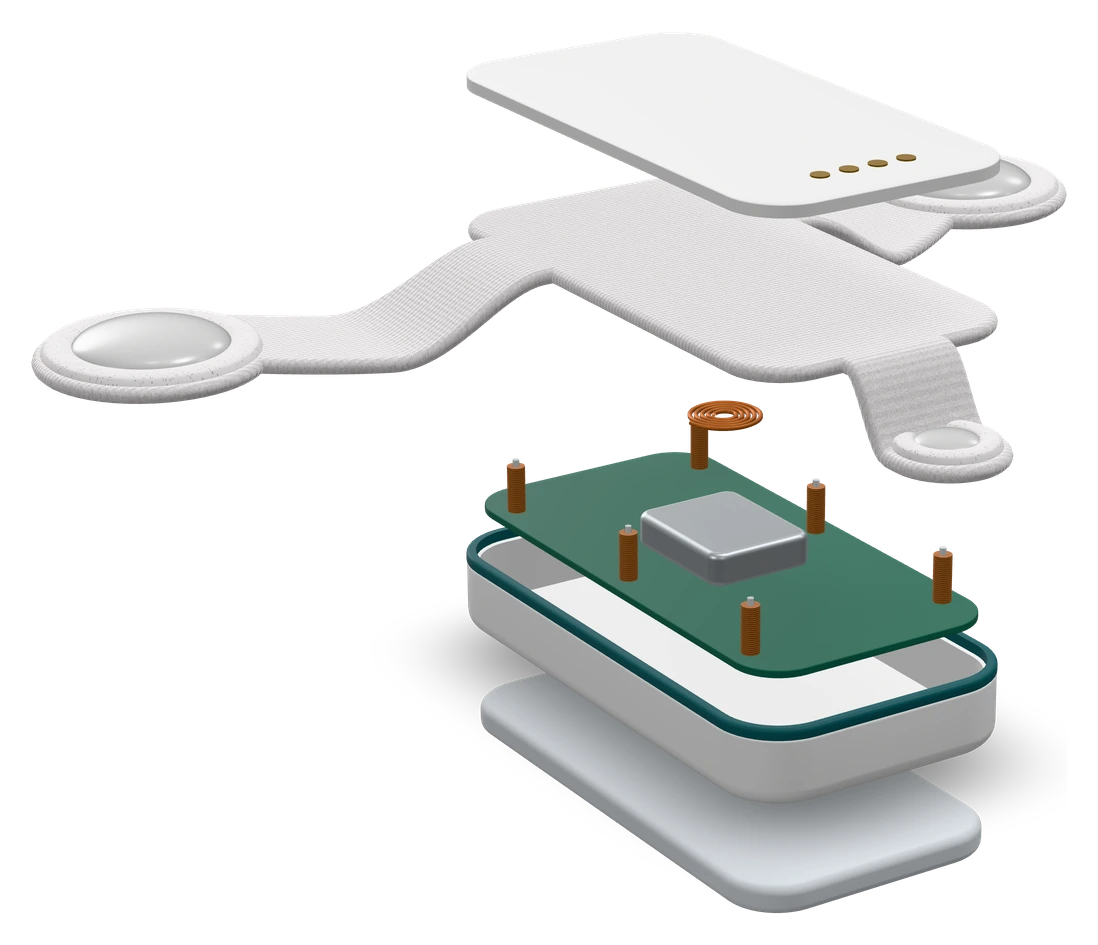
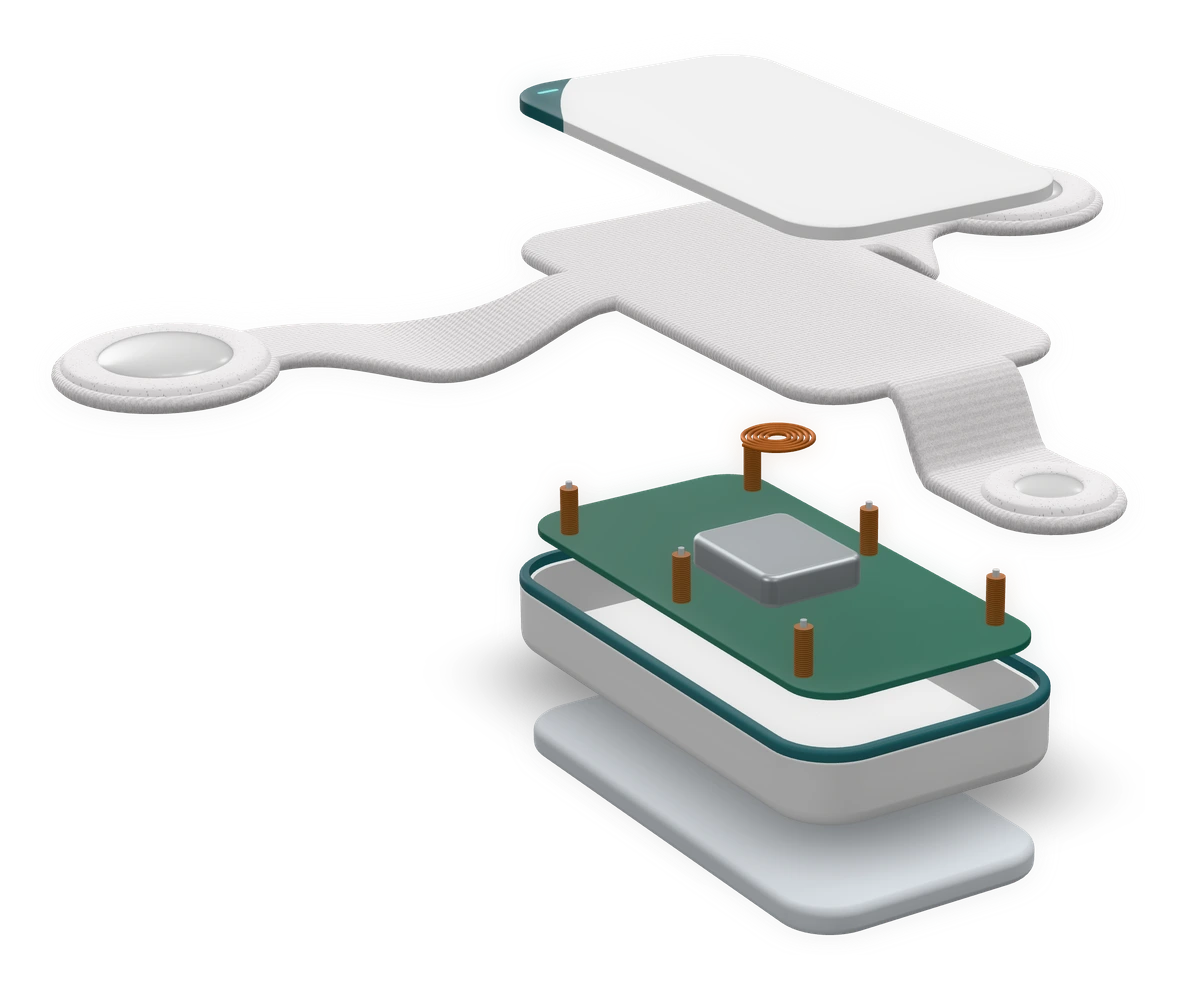
Development: model matched to the opening picture, lid contacts removed, new opened still on Work with us, heartbeat lines leaving the device, 42 chests in cross-section

diff --git a/site/src/three/device.js b/site/src/three/device.js
@@ -2,7 +2,7 @@
    (copied from the research tool's design data: core size, corner radius, pad thickness, sensor places, ring colour, cell).
    Units are millimetres. X across the chest, Y out of the chest, -Z toward the head. The pad's underside is y = -pad_t.
    Only named parts are drawn: soft pad, shell, ring, sensor board with its sensors, the cell, the self-test coil,
-   the flexible sheet (two wings and the top tab, each with its electrode), the lid and its charging pads. */
+   the flexible sheet (two wings and the top tab, each with its electrode), and the lid with its coloured corner and light. */
 import {
   BufferGeometry, CanvasTexture, CatmullRomCurve3, Color, CylinderGeometry, DoubleSide, Float32BufferAttribute, Group,
   LatheGeometry, Mesh, MeshPhysicalMaterial, MeshStandardMaterial, RepeatWrapping, SRGBColorSpace, TubeGeometry, Vector2, Vector3,
@@ -81,7 +81,8 @@ function slab(w, l, r, y0, y1, e, out = 0) {
 export function wingPlan(core) {
   const dx = core.w / 2 - 16;
   const zr = 9 + (core.l - 60) / 4;
-  return { dx, zr, lobe: { x: 50 + dx, z: zr + 18.3, r: 11 }, tab: { z: -(core.l / 2 + 7.5), r: 5.3 }, pad: 8, tabPad: 3.3 };
+  /* strap: the width of a wing; root: where its head-side edge leaves the core. Set to the look of the opening picture. */
+  return { dx, zr, strap: 8.6, root: zr - 2, lobe: { x: 52 + dx, z: zr + 23, r: 10.5 }, tab: { z: -(core.l / 2 + 15), r: 6.3 }, pad: 6.9, tabPad: 3.4 };
 }
 const bez = (p0, c1, c2, p3, t) => {
   const m = 1 - t;
@@ -167,12 +168,20 @@ function sheetGeometry(core, plan, height, th) {
   S.edge(line, () => [0, 0], true);
   /* the wings: each edge is a curve from the core to the round end */
   const { dx, zr, lobe } = plan;
-  const a1 = Math.atan2(9.3, 9), a2 = Math.atan2(-6.7, 8.5);
+  /* each wing is a strap of one width along an S-shaped centre line, level where it leaves the core and where it meets its round end */
+  const hs = plan.strap / 2;
+  const endX = lobe.x - dx - Math.sqrt(lobe.r * lobe.r - hs * hs);
+  const zc = plan.root + hs;
+  const centre = (t) => bez([14, zc], [14 + (endX - 14) * 0.62, zc], [endX - (endX - 14) * 0.55, lobe.z], [endX, lobe.z], t);
   for (const sgn of [-1, 1]) {
     const X = (x) => sgn * (x + dx);
     const cx = sgn * lobe.x;
-    const upper = (t) => bez([X(14), zr], [X(27), zr], [X(34), zr + 4], [cx - sgn * lobe.r * Math.cos(a1), lobe.z - lobe.r * Math.sin(a1)], t);
-    const lower = (t) => bez([X(14), zr + 11.5], [X(22), zr + 11.5], [X(30), zr + 16.5], [cx - sgn * lobe.r * Math.cos(a2), lobe.z - lobe.r * Math.sin(a2)], t);
+    const edge = (t, s) => {
+      const a = centre(Math.max(0, t - 0.002)), b = centre(Math.min(1, t + 0.002)), c = centre(t);
+      const L = Math.hypot(b[0] - a[0], b[1] - a[1]) || 1;
+      return [X(c[0] - s * hs * (b[1] - a[1]) / L), c[1] + s * hs * (b[0] - a[0]) / L];
+    };
+    const upper = (t) => edge(t, -1), lower = (t) => edge(t, 1);
     const NI = 44;
     S.grid(NI, 8, (u, v) => { const a = upper(u), b = lower(u); return [a[0] + (b[0] - a[0]) * v, a[1] + (b[1] - a[1]) * v]; });
     const U = [], Lo = [];
@@ -295,14 +304,41 @@ export function buildDevice(spec, M, { inside = false } = {}) {
   const crown = 0.22;
   const top = [];
   for (const f of [0.2, 0.42, 0.66, 0.86, 0.97]) top.push([-(inL + er + (hw - inL - er) * f), t + crown * (1 - (1 - f) * (1 - f))]);
-  lid.add(mesh(loft(w, l, r, [['C', yL], [-inL, yL], [-inL, yL], [-inL, yR + 0.1], ...arc(-inL - er, yR + 0.1, er, t - yR - 0.1, 0, H, 12), ...top, ['C', t + crown]], 14, 10), M.shell));
+  const lidGeo = loft(w, l, r, [['C', yL], [-inL, yL], [-inL, yL], [-inL, yR + 0.1], ...arc(-inL - er, yR + 0.1, er, t - yR - 0.1, 0, H, 12), ...top, ['C', t + crown]], 14, 10);
+  /* the lid's colours are painted from above: white, with the ring's colour in one corner at the foot end and a small light in it */
+  const lp = lidGeo.attributes.position, luv = [];
+  for (let i = 0; i < lp.count; i++) luv.push((lp.getX(i) + hw) / w, (lp.getZ(i) + hl) / l);
+  lidGeo.setAttribute('uv', new Float32BufferAttribute(luv, 2));
+  const lidMat = M.shell.clone();
+  const paint = (fill) => {
+    const k = 20, tex = canvasTexture(8, () => {}), c = tex.image, x = c.getContext('2d');
+    c.width = Math.round(w * k); c.height = Math.round(l * k);
+    fill(x, k, c.width, c.height, (hw + hw - inL) * k, (hl + hl - inL) * k);
+    tex.flipY = false; tex.colorSpace = SRGBColorSpace; tex.needsUpdate = true;
+    return tex;
+  };
+  const NA = 9, NB = 13; // how far the coloured corner runs along the foot edge and along the side
+  lidMat.map = paint((x, k, W, Hh, ax, az) => {
+    x.fillStyle = '#ffffff'; x.fillRect(0, 0, W, Hh);
+    const A = [ax - NA * k, az], B = [ax, az - NB * k], mx = (A[0] + B[0]) / 2, mz = (A[1] + B[1]) / 2;
+    x.beginPath(); x.moveTo(A[0], A[1]); x.lineTo(A[0], Hh); x.lineTo(W, Hh); x.lineTo(W, B[1]); x.lineTo(B[0], B[1]);
+    x.quadraticCurveTo(ax + (mx - ax) * 0.8, az + (mz - az) * 0.8, A[0], A[1]); x.closePath();
+    x.fillStyle = spec.ring; x.fill();
+  });
+  lidMat.emissiveMap = paint((x, k, W, Hh, ax, az) => {
+    x.fillStyle = '#000000'; x.fillRect(0, 0, W, Hh);
+    const cx = ax - 3.6 * k, cz = az - 3.9 * k;
+    const g = x.createRadialGradient(cx, cz, 0, cx, cz, 2.6 * k);
+    g.addColorStop(0, 'rgba(60,220,215,0.5)'); g.addColorStop(1, 'rgba(60,220,215,0)');
+    x.fillStyle = g; x.fillRect(cx - 3 * k, cz - 3 * k, 6 * k, 6 * k);
+    x.lineCap = 'round'; x.lineWidth = 0.6 * k; x.strokeStyle = '#8ffbf3';
+    x.beginPath(); x.moveTo(cx - 0.9 * k, cz); x.lineTo(cx + 0.9 * k, cz); x.stroke();
+  });
+  lidMat.emissive = new Color('#ffffff');
+  lidMat.emissiveIntensity = 1;
+  lid.add(mesh(lidGeo, lidMat));
 
-  /* flat gold pads at the head end of the lid, which meet the spring pins of the charging case */
-  for (let k = 0; k < (spec.contacts || 0); k++) {
-    const c = new CylinderGeometry(0.95, 0.95, 0.16, 24, 1);
-    c.translate((k - (spec.contacts - 1) / 2) * 3.3, t + crown + 0.02, -(hl - 6.5));
-    lid.add(mesh(c, M.gold, false));
-  }
+  /* The charging pads (spec.contacts) are not drawn: they are not on the lid, and the model has no other face to show them on. */
 
   /* the flexible sheet: clamped in the core, two wings and the top tab draped to the surface it lies on */
   const th = 1.7;
@@ -325,7 +361,7 @@ export function buildDevice(spec, M, { inside = false } = {}) {
     rim.translate(x, y - 0.05, z);
     flex.add(mesh(rim, M.rim));
     const domeP = [];
-    const dh = padR * 0.3;
+    const dh = padR * 0.26;
     for (let k = 0; k <= 14; k++) { const a = (k / 14) * H; domeP.push(new Vector2(padR * Math.sin(a), dh * Math.cos(a))); }
     const dome = new LatheGeometry(domeP.reverse(), 56);
     dome.translate(x, y + 0.2, z);
@@ -370,6 +406,6 @@ export function buildDevice(spec, M, { inside = false } = {}) {
     /* how far each part rises when the device is fully opened */
     lift: { pad: -9, tray: 0, sensors: s0, coil: s0 + tall + 5, flex: s0 + tall + 22, lid: s0 + tall + 35 },
     explode(e) { for (const k in parts) parts[k].position.y = this.lift[k] * e; },
-    dispose() { group.traverse((o) => { if (o.geometry) o.geometry.dispose(); }); ring.dispose(); },
+    dispose() { group.traverse((o) => { if (o.geometry) o.geometry.dispose(); }); ring.dispose(); lidMat.map.dispose(); lidMat.emissiveMap.dispose(); lidMat.dispose(); },
   };
 }

diff --git a/site/src/three/studio.js b/site/src/three/studio.js
@@ -1,8 +1,8 @@
 /* The studio: one WebGL canvas, a soft room, one key light, a baked contact shadow, and up to four devices.
    It draws only when asked. Used by the home page's stage, the viewer on /device/, and the script that renders the stills. */
 import {
-  BufferGeometry, DirectionalLight, DoubleSide, Float32BufferAttribute, HemisphereLight, Mesh, MeshBasicMaterial, NeutralToneMapping,
-  NoBlending, OrthographicCamera, PCFShadowMap, PerspectiveCamera, PlaneGeometry, PMREMGenerator, Scene, ShaderMaterial,
+  BufferGeometry, CustomBlending, DirectionalLight, DoubleSide, Float32BufferAttribute, HemisphereLight, Mesh, MeshBasicMaterial, NeutralToneMapping,
+  NoBlending, OneFactor, OneMinusSrcAlphaFactor, OrthographicCamera, PCFShadowMap, PerspectiveCamera, PlaneGeometry, PMREMGenerator, Scene, ShaderMaterial,
   ShadowMaterial, Vector3, WebGLRenderer, WebGLRenderTarget,
 } from 'three';
 import { RoomEnvironment } from 'three/examples/jsm/environments/RoomEnvironment.js';
@@ -21,6 +21,17 @@ const BLUR = {
       s += texture2D(map, vUv - step) * 0.1531; s += texture2D(map, vUv) * 0.1633; s += texture2D(map, vUv + step) * 0.1531;
       s += texture2D(map, vUv + 2.0 * step) * 0.12245; s += texture2D(map, vUv + 3.0 * step) * 0.0918; s += texture2D(map, vUv + 4.0 * step) * 0.051;
       gl_FragColor = s; }`,
+};
+
+/* the haze: a small, blurred copy of the picture laid lightly over the sharp one */
+const HAZE = {
+  vertexShader: BLUR.vertexShader,
+  fragmentShader: `uniform sampler2D map; uniform float amount; varying vec2 vUv;
+    void main(){ vec4 c = texture2D(map, vUv);
+      gl_FragColor = vec4(c.a > 0.001 ? c.rgb / c.a : vec3(0.0), 1.0);
+      #include <tonemapping_fragment>
+      #include <colorspace_fragment>
+      gl_FragColor = vec4(gl_FragColor.rgb * c.a * amount, c.a * amount); }`,
 };
 
 export { SPECS };
@@ -71,6 +82,15 @@ export class Studio {
     this.contact = new Mesh(this.contactGeo, new MeshBasicMaterial({ map: this.rtA.texture, transparent: true, opacity: 0.7, depthWrite: false, toneMapped: false }));
     this.contact.renderOrder = 2;
     this.scene.add(this.contact);
+    /* the soft haze over the whole picture (0 turns it off) */
+    this.haze = 0.14;
+    this.rtH1 = new WebGLRenderTarget(4, 4);
+    this.rtH2 = new WebGLRenderTarget(4, 4, { depthBuffer: false });
+    this.hazeQuad = new Mesh(this.quad.geometry, new ShaderMaterial({
+      ...HAZE, uniforms: { map: { value: this.rtH2.texture }, amount: { value: this.haze } }, transparent: true, depthTest: false, depthWrite: false,
+      blending: CustomBlending, blendSrc: OneFactor, blendDst: OneMinusSrcAlphaFactor, blendSrcAlpha: OneFactor, blendDstAlpha: OneMinusSrcAlphaFactor,
+    }));
+    this.hazeQuad.frustumCulled = false;
     this.frame = null;
     this.dirty = true;
     this.view = { tx: 0, ty: 0, tz: 0, az: 0.5, el: 0.6, dist: 360 };
@@ -159,6 +179,9 @@ export class Studio {
   }
   place(v = this.view) {
     this.view = v;
+    /* a view may name its own lens (fov, in degrees); the others use the studio's 24 */
+    const fov = v.fov || 24;
+    if (this.cam.fov !== fov) { this.cam.fov = fov; this.cam.updateProjectionMatrix(); }
     const d = v.dist * Math.max(1, this.fitAspect / this.cam.aspect);
     const ce = Math.cos(v.el);
     this.cam.position.set(v.tx + d * ce * Math.sin(v.az), v.ty + d * Math.sin(v.el), v.tz + d * ce * Math.cos(v.az));
@@ -168,7 +191,24 @@ export class Studio {
   draw(v) {
     this.place(v);
     if (this.dirty) this.bake();
-    this.renderer.render(this.scene, this.cam);
+    const r = this.renderer;
+    r.render(this.scene, this.cam);
+    if (!(this.haze > 0)) return;
+    /* the same picture at a quarter of the size, blurred, then mixed over the sharp one */
+    const W = Math.max(8, Math.round(r.domElement.width / 4)), Hh = Math.max(8, Math.round(r.domElement.height / 4));
+    if (this.rtH1.width !== W || this.rtH1.height !== Hh) { this.rtH1.setSize(W, Hh); this.rtH2.setSize(W, Hh); }
+    r.setRenderTarget(this.rtH1); r.clear(); r.render(this.scene, this.cam);
+    for (const reach of [0.0034, 0.0017]) {
+      this.blurMat.uniforms.map.value = this.rtH1.texture; this.blurMat.uniforms.step.value = [reach, 0];
+      r.setRenderTarget(this.rtH2); r.render(this.quad, this.up);
+      this.blurMat.uniforms.map.value = this.rtH2.texture; this.blurMat.uniforms.step.value = [0, reach * W / Hh];
+      r.setRenderTarget(this.rtH1); r.render(this.quad, this.up);
+    }
+    r.setRenderTarget(null);
+    this.hazeQuad.material.uniforms.map.value = this.rtH1.texture;
+    this.hazeQuad.material.uniforms.amount.value = this.haze;
+    const auto = r.autoClear;
+    r.autoClear = false; r.render(this.hazeQuad, this.up); r.autoClear = auto;
   }
   /** a point of the scene, in CSS pixels of the canvas */
   project(x, y, z) {
@@ -179,7 +219,7 @@ export class Studio {
   dispose() {
     this.devices.forEach((d) => d && d.dispose());
     for (const k in this.M) { const m = this.M[k]; if (m.map) m.map.dispose(); if (m.bumpMap) m.bumpMap.dispose(); m.dispose(); }
-    this.rtA.dispose(); this.rtB.dispose(); this.env.dispose();
+    this.rtA.dispose(); this.rtB.dispose(); this.rtH1.dispose(); this.rtH2.dispose(); this.hazeQuad.material.dispose(); this.env.dispose();
     this.renderer.dispose();
   }
 }

diff --git a/site/src/styles/site.css b/site/src/styles/site.css
@@ -406,23 +406,28 @@ picture { display: contents; }
 .spine.gl .stage-layers { pointer-events: none; }
 .stage-gl, .spine.gl .stage .dims { -webkit-user-select: none; user-select: none; }
 
-/* ---------- the heartbeat on the first screen: two thin traces of one beat, drawn once ---------- */
-.herobeat { display: block; width: 100%; max-width: 460px; height: auto; overflow: visible; margin-top: 44px; }
-.herobeat path { fill: none; stroke-width: 1.5; stroke-linecap: round; stroke-linejoin: round; vector-effect: non-scaling-stroke; stroke-dasharray: 1; stroke-dashoffset: 0; }
+/* ---------- the heartbeat on the first screen: two thin lines that leave the device and become the two signals ---------- */
+.herobeat path { fill: none; stroke-width: 1.4; stroke-linecap: round; stroke-linejoin: round; vector-effect: non-scaling-stroke; stroke-dasharray: 1; stroke-dashoffset: 0; }
 .herobeat .hb-ecg { stroke: var(--ink); }
 .herobeat .hb-mcg { stroke: var(--teal); }
-.herobeat text { font-size: 15px; fill: var(--ink-3); }
-.herobeat .hb-k { fill: var(--teal); }
+.herobeat .hb-ecg-dot { fill: var(--ink); }
+.herobeat .hb-mcg-dot { fill: var(--teal); }
+.dims .herobeat .hb-t { font-family: var(--sans); font-size: 13.5px; fill: var(--ink-3); }
+.dims .herobeat .hb-k { fill: var(--teal); }
 @media (prefers-reduced-motion: no-preference) {
-  .herobeat path { animation: hb-draw 1800ms cubic-bezier(0.4, 0, 0.2, 1) 500ms backwards; }
-  .herobeat .hb-mcg { animation-delay: 650ms; }
+  .herobeat path { animation: hb-draw 2200ms cubic-bezier(0.4, 0, 0.2, 1) 500ms backwards; }
+  .herobeat .hb-mcg { animation-delay: 700ms; }
+  .herobeat circle, .herobeat text { animation: hb-in 500ms ease-out 2500ms backwards; }
 }
-@keyframes hb-draw { from { stroke-dashoffset: 1; } to { stroke-dashoffset: 0; } }
-@media (max-width: 900px) { .herobeat { margin-top: 28px; max-width: 340px; } .herobeat text { font-size: 20px; } }
+@keyframes hb-draw { from { stroke-dashoffset: -1; } to { stroke-dashoffset: 0; } }
+@keyframes hb-in { from { opacity: 0; } to { opacity: 1; } }
+@media (max-width: 900px) { .herobeat { display: none; } }
 
-/* ---------- the 42 scanned chests as outlines, in the dark band ---------- */
-.chests { display: grid; grid-template-columns: repeat(21, minmax(0, 1fr)); gap: 10px 6px; margin-top: clamp(40px, 5vw, 72px); }
-.chests svg { display: block; width: 100%; height: auto; overflow: visible; }
-.chests path { fill: rgba(255, 255, 255, 0.04); stroke: rgba(255, 255, 255, 0.5); stroke-width: 1.2; stroke-linejoin: round; vector-effect: non-scaling-stroke; }
-.chests + .verdicts, [data-r] + .verdicts { margin-top: clamp(32px, 4vw, 56px); }
-@media (max-width: 900px) { .chests { grid-template-columns: repeat(7, minmax(0, 1fr)); gap: 10px 8px; } }
+/* ---------- forty-two bodies, one device: the chests in cross-section, laid over each other beside the numeral ---------- */
+.score-n { position: relative; display: flex; align-items: flex-end; justify-content: space-between; gap: 24px; min-width: 0; }
+.chests { flex: 1 1 0; min-width: 0; max-width: 420px; display: block; height: auto; overflow: visible; margin-bottom: 1.2vw; }
+.chests path { fill: none; stroke-linejoin: round; vector-effect: non-scaling-stroke; }
+.chests-bodies path { stroke: rgba(255, 255, 255, 0.3); stroke-width: 1; }
+.chests-hearts path { stroke: rgba(240, 122, 96, 0.62); stroke-width: 1; fill: rgba(240, 122, 96, 0.035); }
+.chests-device { fill: #5FD0D9; }
+@media (max-width: 900px) { .score-n { flex-direction: column; align-items: flex-start; gap: 28px; } .chests { flex: none; width: 100%; max-width: 360px; } }

diff --git a/site/src/three/stills.js b/site/src/three/stills.js
@@ -5,6 +5,7 @@ import { VIEWS, FAMILY, FRAME_ONE, FRAME_FAMILY, sizeLines } from './shots.js';
 /* Cameras used only by the stills (the live stage has its own wing view in shots.js). */
 const WING_STILL = { tx: -25, ty: 2, tz: 19, az: -0.85, el: 0.5, dist: 112, fit: 1.43 };
 const DETAIL_STILL = { tx: -21, ty: 1, tz: 13, az: -0.95, el: 0.52, dist: 176, fit: 1.33 };
+const INSIDE_STILL = { tx: 0, ty: 20, tz: 0, az: 2.2, el: 0.7, dist: 360, fit: 1.33 };
 const WIDE_STILL = { ...VIEWS.hero, tx: 50, tz: -14, dist: 350, fit: 1.78 };
 
 let S = null;
@@ -35,6 +36,15 @@ export const STILLS = {
   wing(k = 1) { const s = one(0, 2000 * k, 1400 * k, WING_STILL); return { png: s.png() }; },
   detail(k = 1) { const s = one(0, 2000 * k, 1500 * k, DETAIL_STILL); return { png: s.png() }; },
   wide(k = 1) { const s = one(0, 2800 * k, 1575 * k, WIDE_STILL, { frame: { cx: 0, cz: 0, w: 260, d: 230 } }); return { png: s.png() }; },
+  /** option 1 with its lid (the coil is on the lid's underside) and the flexible sheet lifted clear, so the board and the cell are seen in the shell */
+  inside(k = 1, view = INSIDE_STILL, lift = [42, 56]) {
+    const s = one(0, 2000 * k, 1500 * k, view, { frame: { cx: 0, cz: 0, w: 260, d: 230 } });
+    const p = s.device(0).parts;
+    p.flex.position.y = lift[0]; p.lid.position.y = lift[1]; p.coil.position.y = lift[1];
+    s.catcher.material.opacity = 0.07;
+    s.touch(); s.draw(view);
+    return { png: s.png() };
+  },
   /** any view of option 1, for trying a camera: STILLS.at(k, width, height, view, explode) */
   at(k = 1, w = 1600, h = 1200, view = VIEWS.hero, explode = 0) { const s = one(0, w * k, h * k, view, { explode }); return { png: s.png() }; },
   option(k = 1, i = 0) {
@@ -46,7 +56,7 @@ export const STILLS = {
   /** the four in a row at true relative scale */
   row(k = 1) {
     const s = studio();
-    const half = SPECS.map((p) => p.core.w / 2 - 16 + 61);
+    const half = SPECS.map((p) => p.core.w / 2 - 16 + 62.5);
     let x = 0;
     const places = SPECS.map((p, i) => { x += half[i]; const q = { i, x, z: 0 }; x += half[i] + 22; return q; });
     const total = x - 22;

diff --git a/site/src/three/shots.js b/site/src/three/shots.js
@@ -1,8 +1,8 @@
 /* The camera positions and layouts shared by the live stage and the rendered stills, so the two cannot disagree. */
 export const VIEWS = {
-  hero: { tx: -2, ty: 0, tz: 10, az: 0.44, el: 0.74, dist: 238, fit: 1.5 },
+  hero: { tx: -2, ty: 0, tz: 8, az: 0.31, el: 0.86, dist: 186, fov: 32, fit: 1.5 },
   open: { tx: 0, ty: 27, tz: 4, az: 2.56, el: 0.36, dist: 400, fit: 0.9 },
-  wing: { tx: -4, ty: 0, tz: 12, az: -0.62, el: 0.5, dist: 262, fit: 1.4 },
+  wing: { tx: 4, ty: 0, tz: 12, az: -0.62, el: 0.5, dist: 286, fit: 1.4 },
   family: { tx: 73, ty: 0, tz: 70, az: 0, el: 0.74, dist: 800, fit: 1.05 },
 };
 /** the four options on one ground at true relative scale: two by two */
